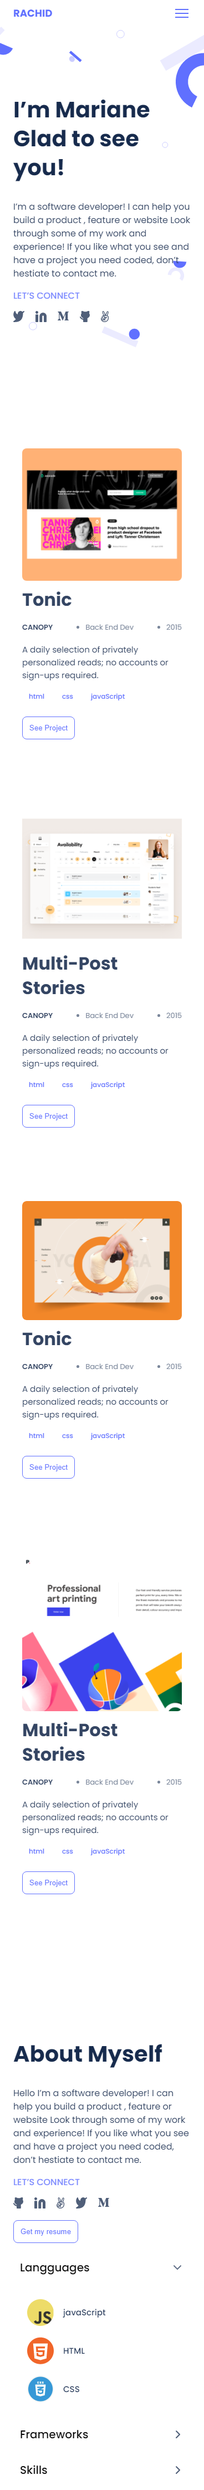
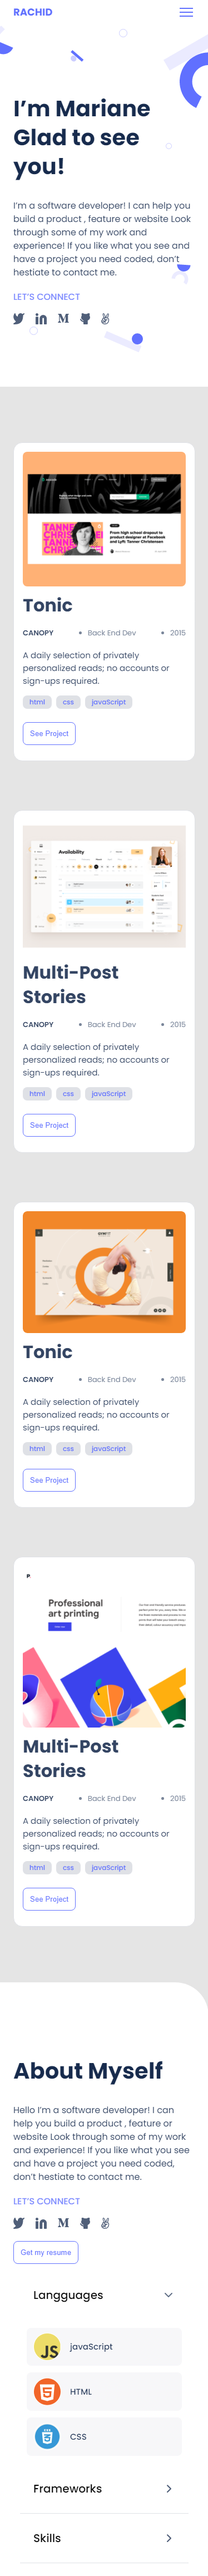
following the reviewer suggestions

diff --git a/index.html b/index.html
@@ -22,22 +22,34 @@
         website Look through some of my work and experience! If you like what
         you see and have a project you need coded, don’t hestiate to contact me.
       </p>
-      <a href="#">LET’S CONNECT</a>
+      <h3>
+        <a href="#">LET’S CONNECT</a>
+      </h3>
       <ul class="socials">
         <li>
-          <img src="./assets/twitter.svg" alt="twitter icon" />
+          <a href="#">
+            <img src="./assets/twitter.svg" alt="twitter icon" />
+          </a>
         </li>
         <li>
-          <img src="./assets/Linkedin.svg" alt="Linkedin icon" />
+          <a href="#">
+            <img src="./assets/Linkedin.svg" alt="Linkedin icon" />
+          </a>
         </li>
         <li>
-          <img src="./assets/meduim.svg" alt="medium icon" />
+          <a href="#">
+            <img src="./assets/meduim.svg" alt="medium icon" />
+          </a>
         </li>
         <li>
-          <img src="./assets/github.svg" alt="github icon" />
+          <a href="#">
+            <img src="./assets/github.svg" alt="github icon" />
+          </a>
         </li>
         <li>
-          <img src="./assets/peace.svg" alt="peace icon" />
+          <a href="#">
+            <img src="./assets/peace.svg" alt="peace icon" />
+          </a>
         </li>
       </ul>
     </section>
@@ -141,29 +153,41 @@
           like what you see and have a project you need coded, don’t hestiate to
           contact me.
         </p>
-        <a href="#">LET’S CONNECT</a>
+        <h3>
+          <a href="#">LET’S CONNECT</a>
+        </h3>
         <ul class="socials">
           <li>
-            <img src="./assets/github.svg" alt="github icon" />
+            <a href="#">
+              <img src="./assets/twitter.svg" alt="twitter icon" />
+            </a>
           </li>
           <li>
-            <img src="./assets/Linkedin.svg" alt="Linkedin icon" />
+            <a href="#">
+              <img src="./assets/Linkedin.svg" alt="Linkedin icon" />
+            </a>
           </li>
           <li>
-            <img src="./assets/peace.svg" alt="peace icon" />
+            <a href="#">
+              <img src="./assets/meduim.svg" alt="medium icon" />
+            </a>
           </li>
           <li>
-            <img src="./assets/twitter.svg" alt="twitter icon" />
+            <a href="#">
+              <img src="./assets/github.svg" alt="github icon" />
+            </a>
           </li>
           <li>
-            <img src="./assets/meduim.svg" alt="medium icon" />
+            <a href="#">
+              <img src="./assets/peace.svg" alt="peace icon" />
+            </a>
           </li>
         </ul>
         <button>Get my resume</button>
       </div>
 
       <div class="list">
-        <div class="drop">
+        <div class="drop active">
           <p>Langguages</p>
           <img src="./assets/arrow-down.svg" alt="down arrow" />
         </div>

diff --git a/style.css b/style.css
@@ -6,6 +6,7 @@ body {
   margin: 0;
   color: #344563;
   font-size: 15px;
+  background-color: #e5e5e5;
 }
 
 a {
@@ -59,6 +60,7 @@ a:hover {
   background-image: url("./assets/header-shapes-mobile.svg");
   background-repeat: no-repeat;
   background-size: contain;
+  background-color: #fff;
 }
 
 h1 {
@@ -96,6 +98,9 @@ h1 {
   padding: 16px;
   display: flex;
   flex-direction: column;
+  border: 1px solid #dfe1e6;
+  background-color: #fff;
+  border-radius: 16px;
 }
 
 .work-card img {
@@ -138,6 +143,8 @@ h1 {
 .langauges li {
   padding: 4px 12px;
   margin-right: 8px;
+  background-color: #dfe1e6;
+  border-radius: 8px;
 }
 
 .subTitle li:first-child {
@@ -156,12 +163,30 @@ button {
   color: #6070ff;
   border: 1px #6070ff solid;
   cursor: pointer;
+  transition: all 0.25s ease-in-out;
+}
+
+button:hover {
+  background-color: #6070ff;
+  color: #fff;
+}
+
+button:active {
+  background-color: #2230d2;
+  color: #fff;
+}
+
+button:disabled {
+  color: #5e6c84;
+  border-color: #c1c7d0;
 }
 
 .about {
   padding: 100px 24px;
   display: grid;
   grid-template-columns: 1fr;
+  background-color: #fff;
+  border-radius: 0 60px 0 0;
 }
 
 .drop {
@@ -172,6 +197,11 @@ button {
   font-size: 20px;
   line-height: 24px;
   color: #000;
+  padding: 12px 24px;
+}
+
+.drop:not(.active) {
+  border-bottom: 1px solid #dfe1e6;
 }
 
 .list {
@@ -180,13 +210,16 @@ button {
 
 .list ul {
   list-style-type: none;
-  padding: 0;
+  padding: 0 12px;
 }
 
 .skill {
   padding: 9px 12px;
   display: flex;
   align-items: center;
+  background-color: #f7f7f9;
+  border-radius: 8px;
+  margin: 12px 0;
 }
 
 .skill p {
